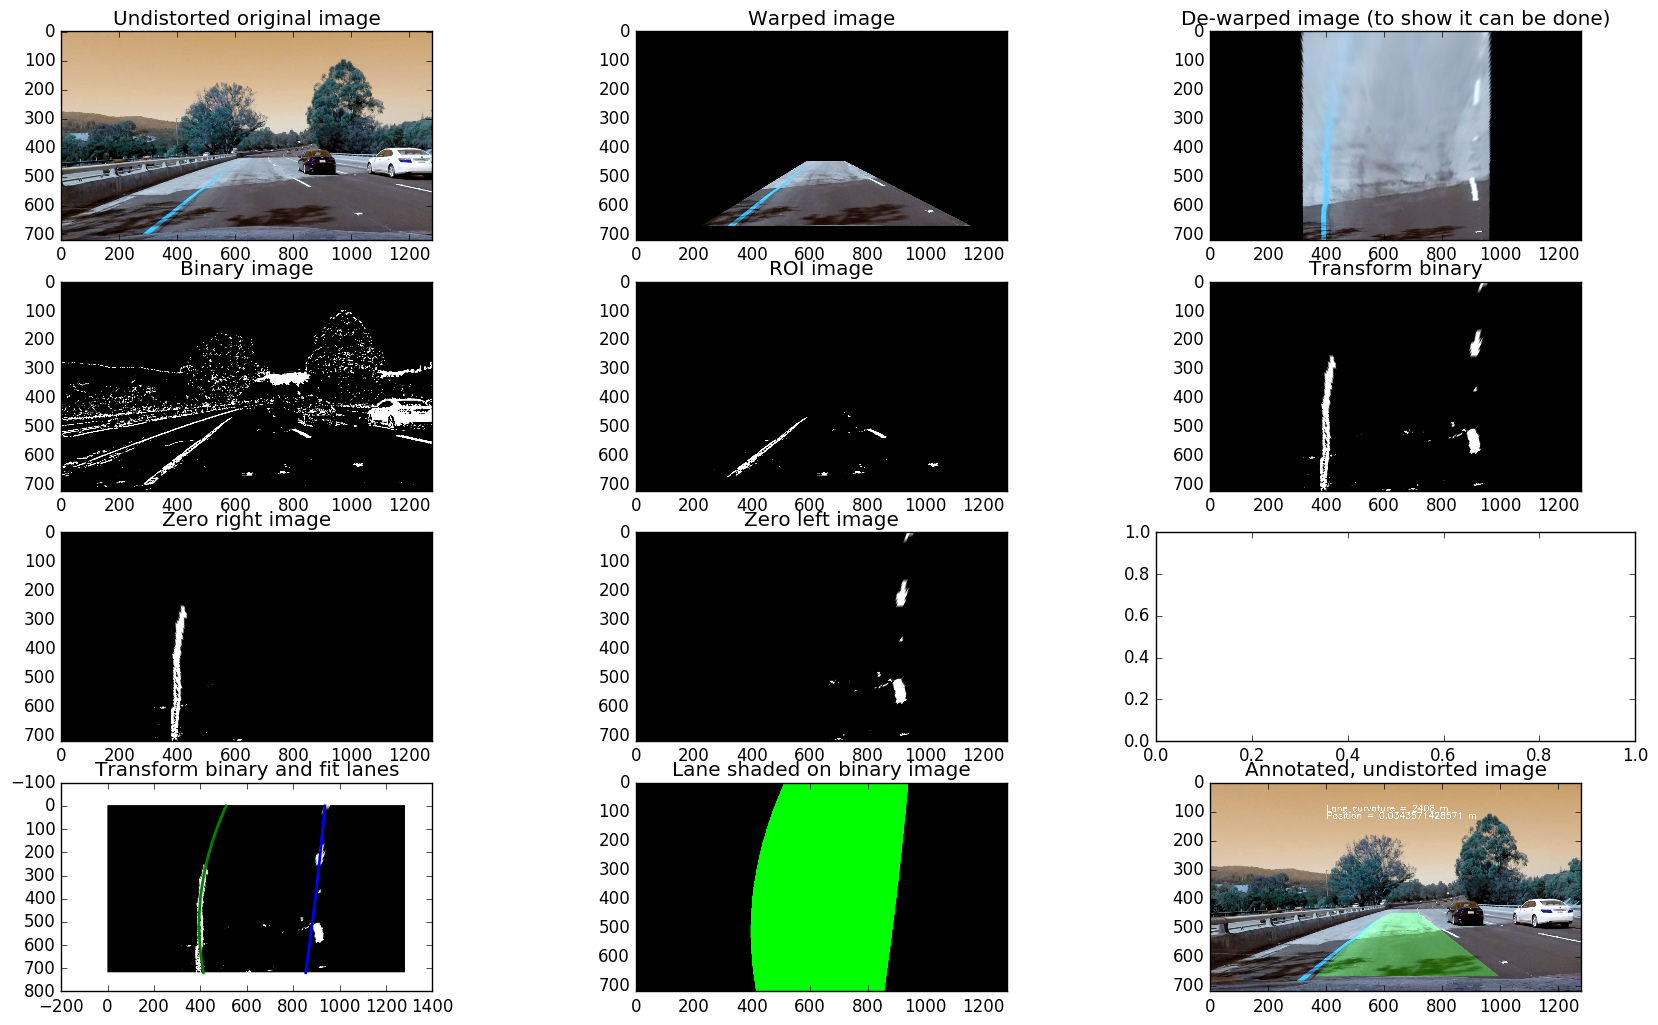
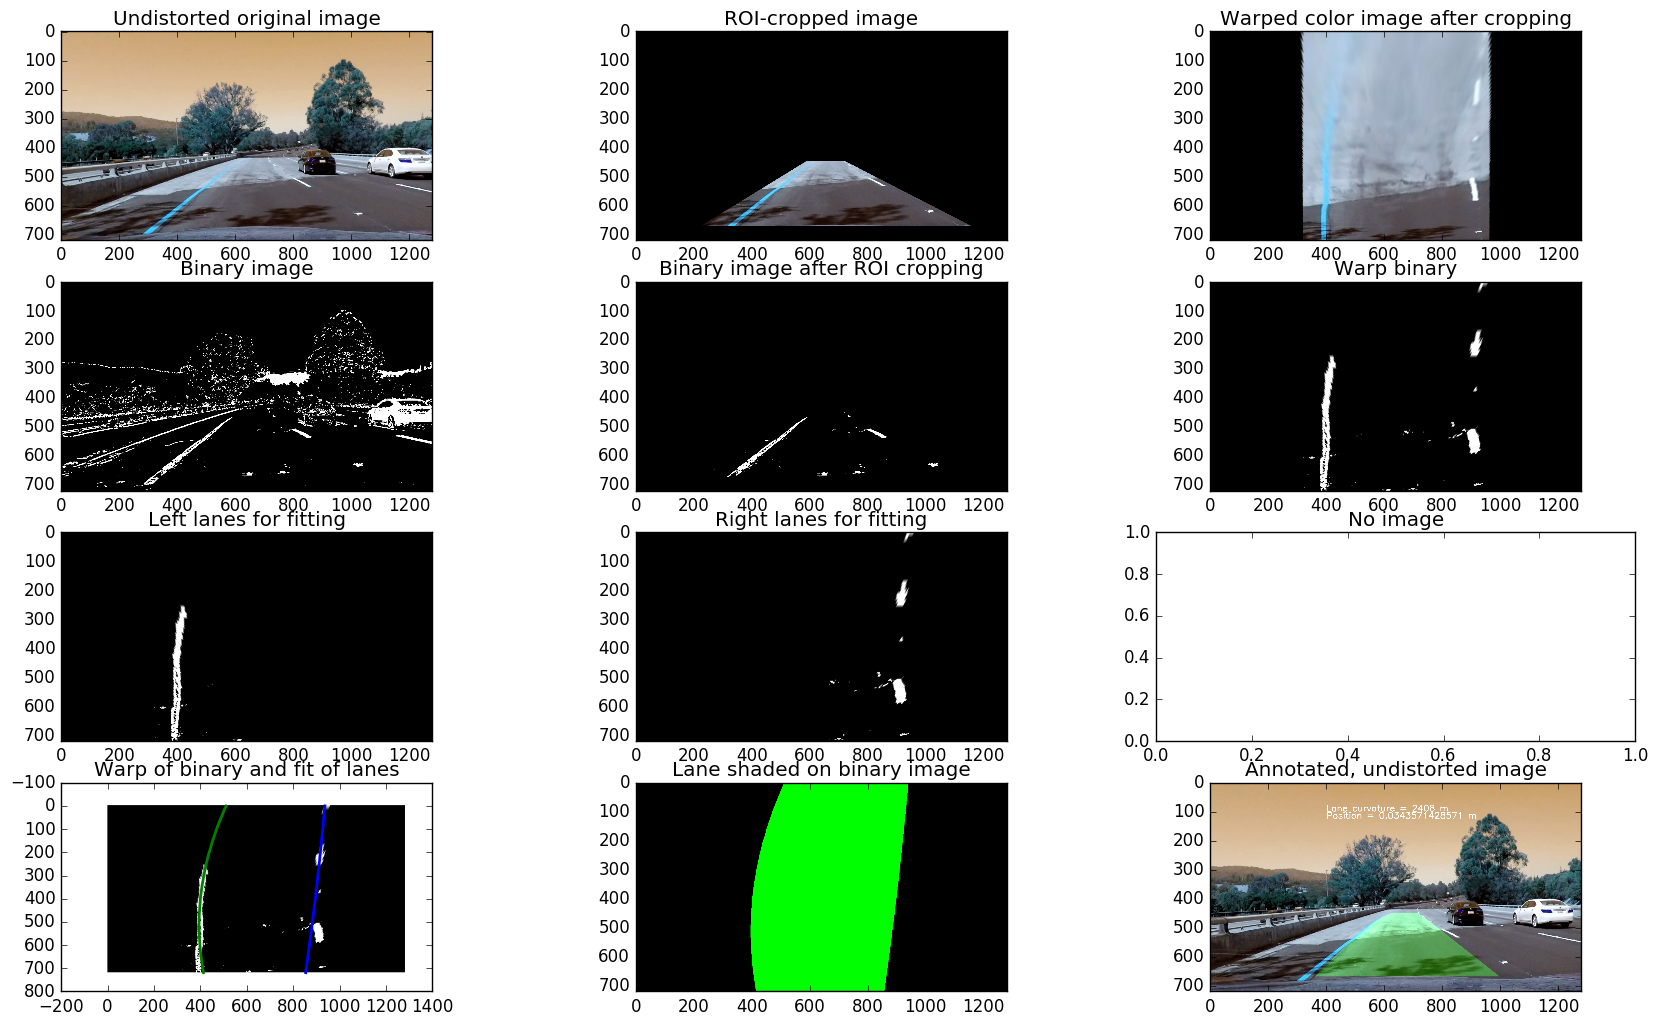
update

diff --git a/main.py b/main.py
@@ -577,27 +577,28 @@ def proc_pipeline(objpoints, imgpoints, img, verbose, video = '', outdir = '', n
         ax1.imshow(img_undistort)
         ax1.set_title('Undistorted original image')
         ax2.imshow(img_roicrop)
-        ax2.set_title('Warped image')
+        ax2.set_title('ROI-cropped image')
         ax3.imshow(img_newwarp)
-        ax3.set_title('De-warped image (to show it can be done)')
+        ax3.set_title('Warped color image after cropping')
         ax4.imshow(img_bin, cmap = 'gray')
         ax4.set_title('Binary image')
         ax5.imshow(img_roi, cmap = 'gray')
-        ax5.set_title('ROI image')
+        ax5.set_title('Binary image after ROI cropping')
         ax6.imshow(img_bin_warp, cmap = 'gray')
-        ax6.set_title('Transform binary')
+        ax6.set_title('Warp binary')
 
         ax7.imshow(zero_right, cmap = 'gray')
-        ax7.set_title('Zero right image')
+        ax7.set_title('Left lanes for fitting')
         ax8.imshow(zero_left, cmap = 'gray')
-        ax8.set_title('Zero left image')
+        ax8.set_title('Right lanes for fitting')
+        ax9.set_title('No image')
 
 
 
         ax10.imshow(img_bin_warp, cmap = 'gray')
         ax10.plot(left_fit_xvals, y_vals, c='g', linewidth = 2)
         ax10.plot(right_fit_xvals, y_vals, c='b', linewidth = 2)
-        ax10.set_title('Transform binary and fit lanes')
+        ax10.set_title('Warp of binary and fit of lanes')
         ax11.imshow(img_color_warp)
         ax11.set_title('Lane shaded on binary image')
         ax12.imshow(img_result)
